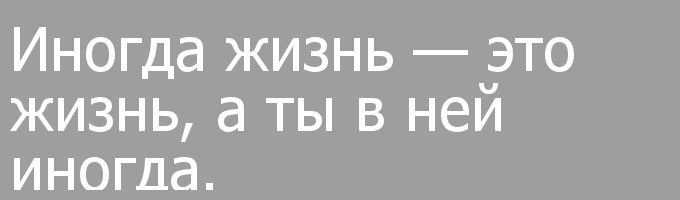
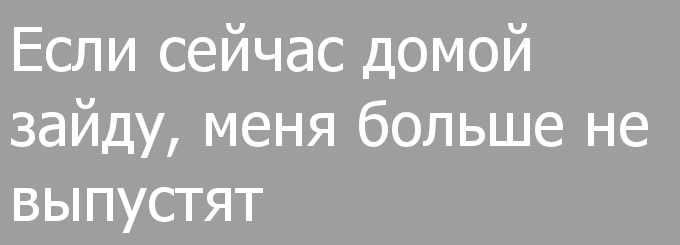
generate random image with text(statham)

diff --git a/indexStatham.js b/indexStatham.js
@@ -1,0 +1,18 @@
+const fs = require('fs');
+const { execFileSync } = require('child_process');
+
+const quotes = require("./quotes.json");
+
+const getRandomElementFromArray = (arr = []) => arr[Math.floor(Math.random() * arr.length)];
+
+const getRandomWolf = () => {
+   const stathams = fs.readdirSync('./stathamImages');
+   return './stathamImages/' + getRandomElementFromArray(stathams);
+}
+
+const getRandomQuote = (quotes, type = 'statham') => {
+   return getRandomElementFromArray(quotes[type]);
+}
+
+execFileSync("node", ['./createText.js', `--text=${getRandomQuote(quotes, 'statham')}`], { 'stdio': 'inherit' });
+execFileSync("node", ['./createImage.js', `--image=${getRandomWolf()}`], { 'stdio': 'inherit' });

diff --git a/createText.js b/createText.js
@@ -5,7 +5,7 @@ async function createText(text) {
   const dataUri = await textToImage.generate(text, {
     maxWidth: 680,
     fontSize: 60,
-    lineHeight: 60,
+    lineHeight: 75,
     bgColor: "#00000061",
     textColor: "#fff",
   });
